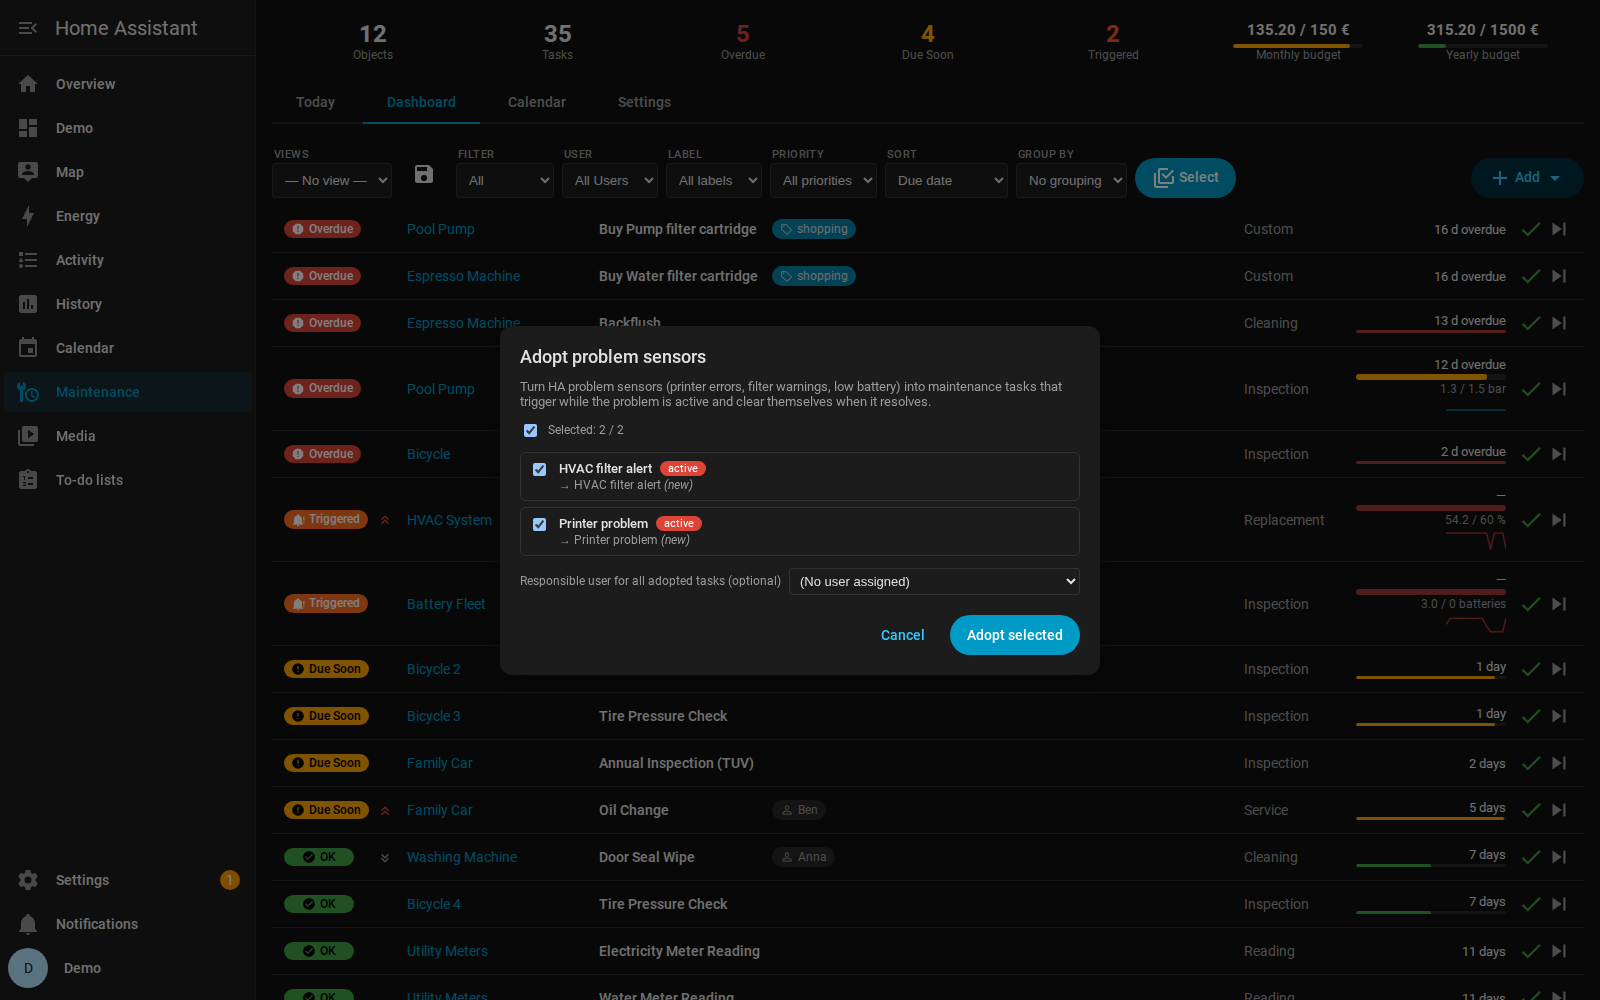
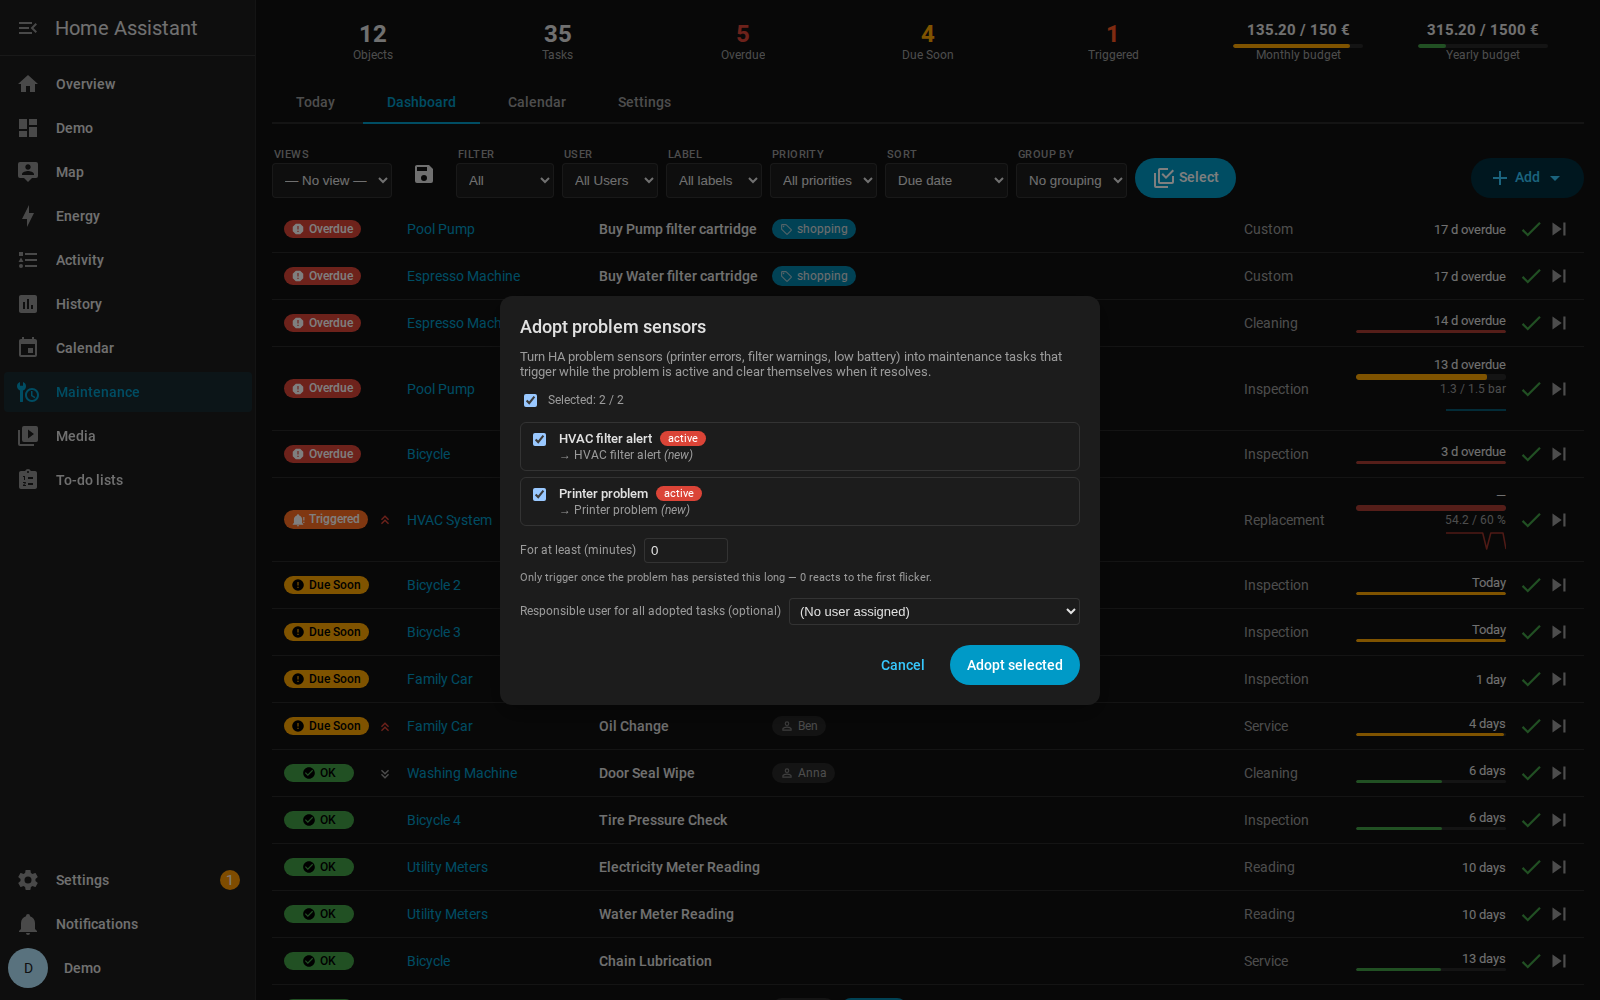
docs: refresh GIFs, adopt-dialog screenshot, test counts; re-tie visual baselines
- All 11 docs GIFs re-recorded on the seeded demo (they predated the last
  three releases; battery-fleet.gif now shows the aligned roster with the
  add-picker and track-self-charging toggle - re-recorded after re-seeding
  the fleet states, since the first take ran against a restart-emptied
  roster).
- adopt-problem-sensors.png re-shot: shows the new "For at least (minutes)"
  flicker filter (#136).
- ARCHITECTURE test counts caught up (3,436 backend + 458 frontend after
  the DRY tranche); calendar prose notes that a missed cycle shows with
  the overdue pill (the drift-audit fix).
- Visual baselines re-tied after the GIF flows mutated the demo seed
  (completions, stock crossing, rotation) - reviewed: data drift only, no
  layout breakage. All surfaces match on the new baselines.

Claude-Session: https://claude.ai/code/session_013kuCGZTtYQDiBSomLhUfq2

diff --git a/docs/FEATURES.md b/docs/FEATURES.md
@@ -454,7 +454,8 @@ title: Batteries   # optional
 ![Calendar tab](images/calendar-tab.png)
 
 Window chips (7 / 14 / 30 days, *1 year*, plus past windows −30d/−90d for
-reviewing what was done), per-event source icon (clock = time-based,
+reviewing what was done — a *missed* cycle shows with the overdue pill, never
+green), per-event source icon (clock = time-based,
 trending-up = sensor-based), per-event average cost, and a prediction-confidence
 pill (green / amber / red, 1.5.1+) on sensor-predicted events. Time-based
 recurring tasks additionally project up to 5 future occurrences into the window

diff --git a/docs/ARCHITECTURE.md b/docs/ARCHITECTURE.md
@@ -2,7 +2,7 @@
 
 A Home Assistant custom integration for tracking, scheduling, and predicting maintenance of household objects and devices. Combines time-based scheduling, sensor-driven triggers, adaptive ML algorithms, and environmental correlation for intelligent maintenance management.
 
-**Version:** 2.63.0 | 206 source files (132 Python + 74 TypeScript) | **98% test coverage** (3,430 backend tests + 454 frontend tests)
+**Version:** 2.63.0 | 206 source files (132 Python + 74 TypeScript) | **98% test coverage** (3,436 backend tests + 458 frontend tests)
 
 ---
 
